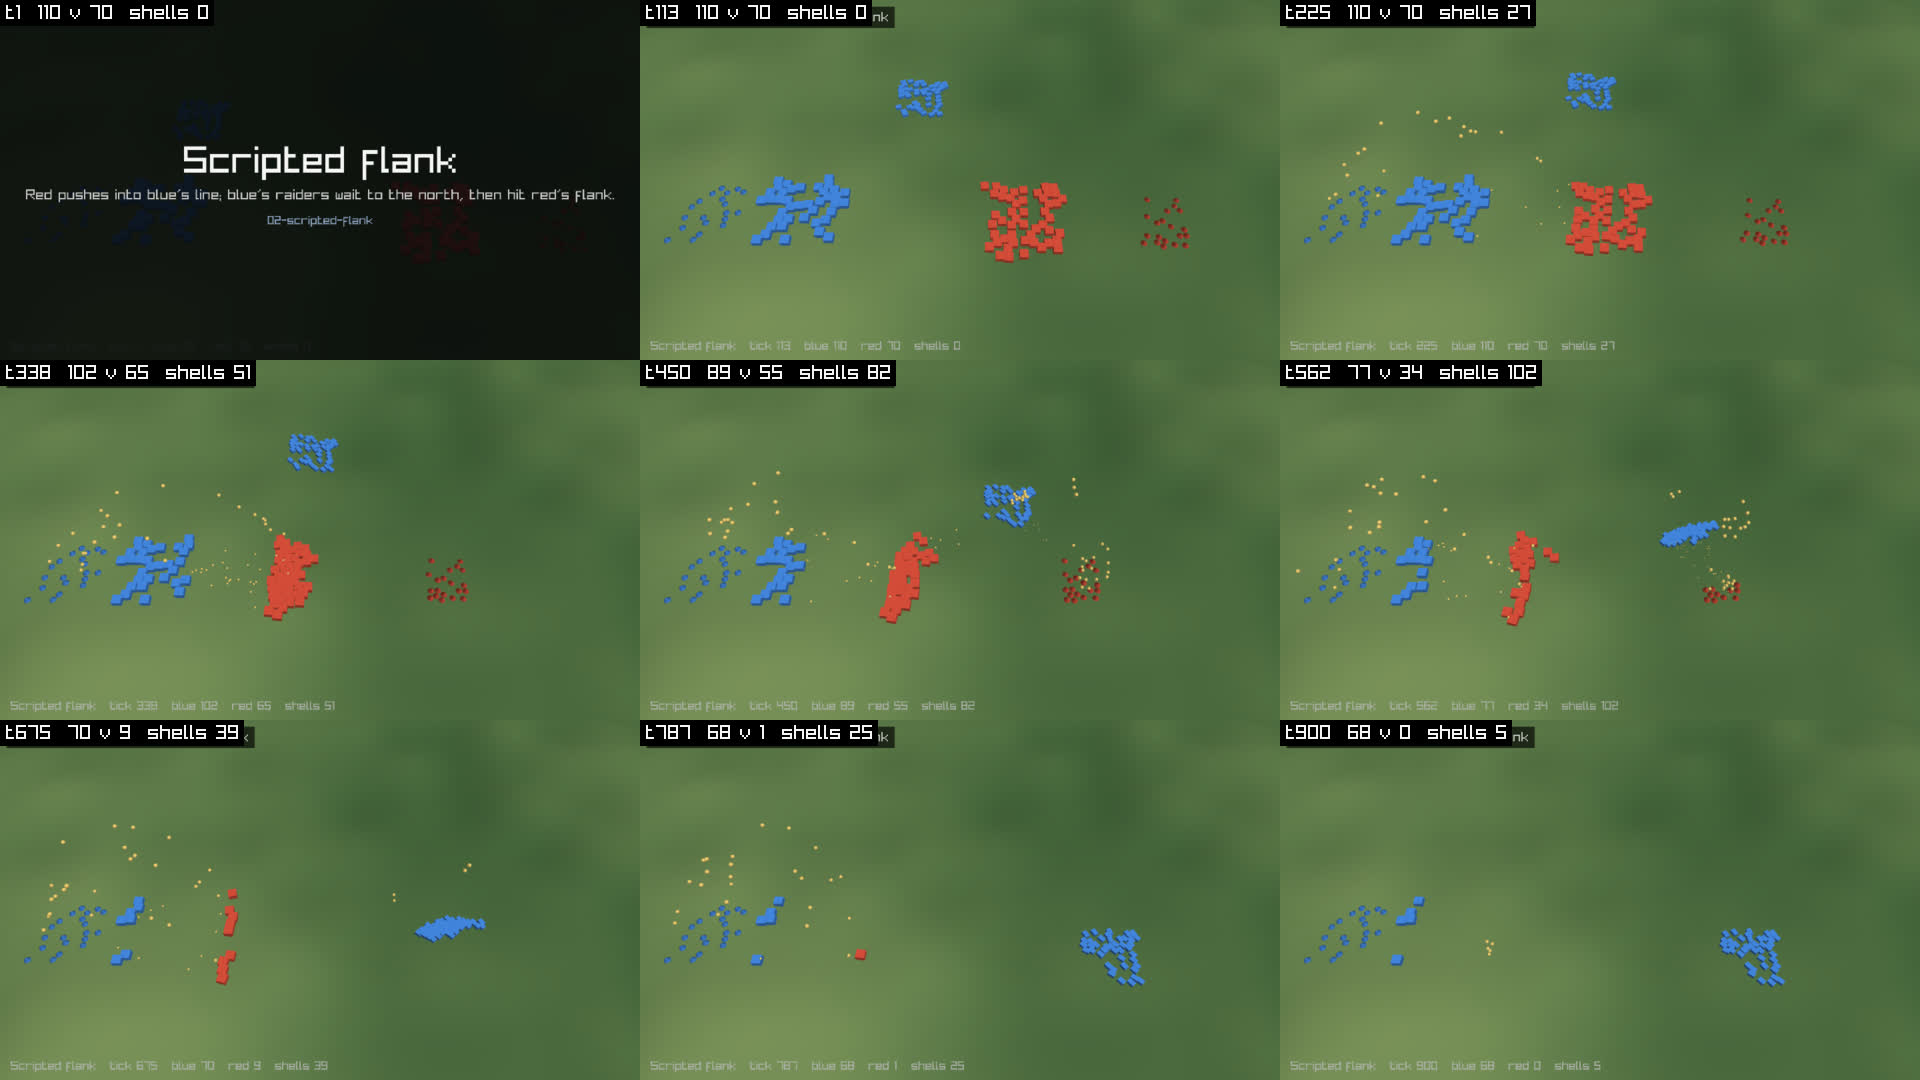
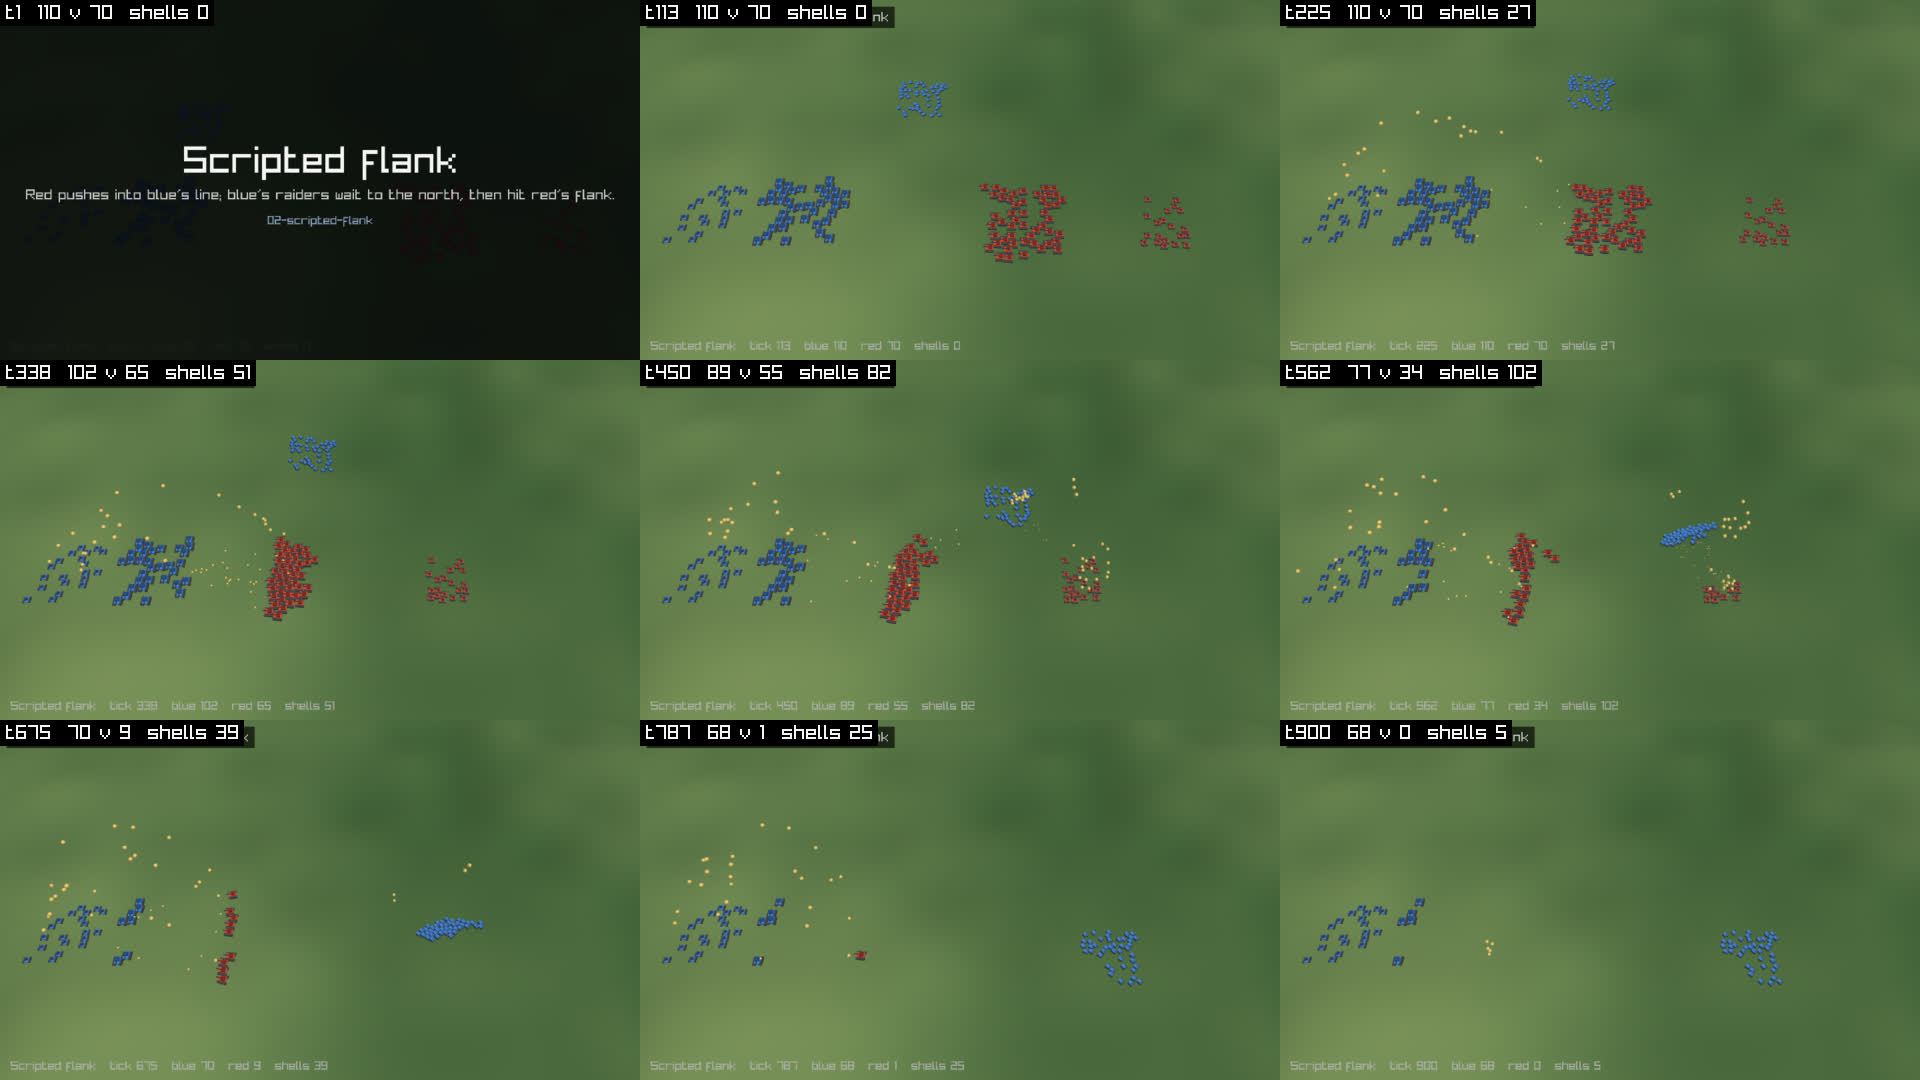
Spike 22b: models
Each type is a few primitives (box, cylinder, cone, sphere) merged into
one mesh at startup, so a type is still one instanced draw. A model fills
x, z in [-0.5, 0.5], y in [0, 1], its base on the ground and its front
toward +z. Each part's vertex colour is a tone: alpha 255 takes the
side's colour times its grey (body, darker trim), alpha 0 keeps its own
(metal and tracks, dark bays, warm lights), mixed in the unit shader.

Demo 28 lines up every T1 type and drives the units off. Every demo is
re-rendered (rendering changed); network demos re-ran for real (their
netlogs predated the 22a wire bump).

Claude-Session: https://claude.ai/code/session_01U6H7EAB8VtJZHRquW7cdoH

diff --git a/src/render.c b/src/render.c
@@ -7,21 +7,26 @@ static const char *UNIT_VS =
 	"#version 330\n"
 	"in vec3 vertexPosition;\n"
 	"in vec3 vertexNormal;\n"
+	"in vec4 vertexColor;\n"
 	"in mat4 instanceTransform;\n"
 	"uniform mat4 mvp;\n"
 	"out float shade;\n"
+	"out vec4 tone;\n"
 	"void main() {\n"
 	"    vec3 n = normalize(mat3(instanceTransform) * vertexNormal);\n"
 	"    shade = 0.45 + 0.55 * max(dot(n, normalize(vec3(0.4, 1.0, 0.3))), 0.0);\n"
+	"    tone = vertexColor;\n"
 	"    gl_Position = mvp * instanceTransform * vec4(vertexPosition, 1.0);\n"
 	"}\n";
 
 static const char *UNIT_FS =
 	"#version 330\n"
 	"in float shade;\n"
+	"in vec4 tone;\n"
 	"uniform vec4 colDiffuse;\n"
 	"out vec4 finalColor;\n"
-	"void main() { finalColor = vec4(colDiffuse.rgb * shade, colDiffuse.a); }\n";
+	"// tone.a: how much of the side's colour (1: the body; 0: metal, lights).\n"
+	"void main() { finalColor = vec4(mix(tone.rgb, colDiffuse.rgb * tone.rgb, tone.a) * shade, colDiffuse.a); }\n";
 
 static const Color FACTION_COLOR[FACTION_COUNT] = {{70, 140, 235, 255}, {225, 80, 60, 255}};
 
@@ -122,6 +127,208 @@ static void build_terrain(Renderer *r, const Terrain *t, Arena *program)
 	r->chunk_colors = PUSH(program, unsigned char, (TERRAIN_CHUNK + 1) * (TERRAIN_CHUNK + 1) * 4);
 }
 
+// Models: each type a few primitives merged into one mesh, so a type is
+// still one instanced draw. A model fills x, z in [-0.5, 0.5] and y in
+// [0, 1] (its base at y = 0, its front toward +z), and is scaled per
+// instance from the UnitDef. Each part's vertex colour is a tone: alpha 255
+// takes the side's colour times its grey (the body, darker trim), alpha 0
+// keeps its own colour (metal, tracks, lights): cheap depth.
+typedef enum { PART_BOX, PART_CYLINDER, PART_CONE, PART_SPHERE } Shape;
+typedef struct {
+	Shape shape;
+	int slices;          // round shapes' sides (0: 12)
+	float x, y, z;       // a box's or sphere's centre; a round shape's base centre
+	float sx, sy, sz;    // a box's size; a round shape's diameter (sx = sz) and length (sy)
+	float tilt;          // degrees from upright toward +z (90: lying along +z, a barrel)
+	Color tone;
+} Part;
+
+static const Color TONE_BODY = {255, 255, 255, 255};
+static const Color TONE_TRIM = {150, 150, 150, 255};
+static const Color TONE_METAL = {72, 74, 80, 0};
+static const Color TONE_DARK = {34, 34, 38, 0};
+static const Color TONE_PALE = {200, 200, 190, 0};
+static const Color TONE_GLOW = {255, 205, 100, 0};
+
+#define MODEL(...) ((const Part[]){__VA_ARGS__}), (int)(sizeof((const Part[]){__VA_ARGS__}) / sizeof(Part))
+#define TRACKS(w, h, l) {PART_BOX, 0, -0.5f + 0.5f * (w), 0.5f * (h), 0, w, h, l, 0, TONE_METAL}, {PART_BOX, 0, 0.5f - 0.5f * (w), 0.5f * (h), 0, w, h, l, 0, TONE_METAL}
+
+static Mesh model_mesh(const Part *parts, int n)
+{
+	// Unindexed triangles: raylib's round shapes come without indices.
+	Mesh gen[16];
+	ASSERT(n <= (int)countof(gen));
+	int total = 0;
+	for (int k = 0; k < n; k++) {
+		const Part *p = &parts[k];
+		int slices = p->slices ? p->slices : 12;
+		gen[k] = p->shape == PART_BOX        ? GenMeshCube(1.0f, 1.0f, 1.0f)
+		       : p->shape == PART_CYLINDER ? GenMeshCylinder(0.5f, 1.0f, slices)
+		       : p->shape == PART_CONE     ? GenMeshCone(0.5f, 1.0f, slices)
+		                              : GenMeshSphere(0.5f, 8, slices);
+		total += gen[k].indices ? gen[k].triangleCount * 3 : gen[k].vertexCount;
+	}
+	Mesh m = {0};
+	m.vertexCount = total;
+	m.triangleCount = total / 3;
+	m.vertices = MemAlloc((unsigned)(total * 3) * sizeof(float));
+	m.normals = MemAlloc((unsigned)(total * 3) * sizeof(float));
+	m.colors = MemAlloc((unsigned)(total * 4));
+	int v = 0;
+	for (int k = 0; k < n; k++) {
+		const Part *p = &parts[k];
+		const Mesh *g = &gen[k];
+		float a = p->tilt * (PI / 180.0f), ca = cosf(a), sa = sinf(a);
+		int count = g->indices ? g->triangleCount * 3 : g->vertexCount;
+		for (int q = 0; q < count; q++, v++) {
+			int s = g->indices ? g->indices[q] : q;
+			float x = g->vertices[s * 3] * p->sx, y = g->vertices[s * 3 + 1] * p->sy, z = g->vertices[s * 3 + 2] * p->sz;
+			// Normals under a non-uniform scale: divide by it, then renormalise.
+			float nx = g->normals[s * 3] / p->sx, ny = g->normals[s * 3 + 1] / p->sy, nz = g->normals[s * 3 + 2] / p->sz;
+			float nl = sqrtf(nx * nx + ny * ny + nz * nz);
+			nx /= nl, ny /= nl, nz /= nl;
+			// Tilt about x, from +y toward +z.
+			float ty = y * ca - z * sa, tz = y * sa + z * ca;
+			float tny = ny * ca - nz * sa, tnz = ny * sa + nz * ca;
+			m.vertices[v * 3] = p->x + x;
+			m.vertices[v * 3 + 1] = p->y + ty;
+			m.vertices[v * 3 + 2] = p->z + tz;
+			m.normals[v * 3] = nx;
+			m.normals[v * 3 + 1] = tny;
+			m.normals[v * 3 + 2] = tnz;
+			m.colors[v * 4] = p->tone.r;
+			m.colors[v * 4 + 1] = p->tone.g;
+			m.colors[v * 4 + 2] = p->tone.b;
+			m.colors[v * 4 + 3] = p->tone.a;
+		}
+		UnloadMesh(gen[k]);
+	}
+	UploadMesh(&m, false);
+	return m;
+}
+
+static void build_models(Renderer *r)
+{
+	Mesh *mesh = r->unit_mesh;
+	mesh[UNIT_RAIDER] = model_mesh(MODEL(TRACKS(0.18f, 0.3f, 0.95f),
+		{PART_BOX, 0, 0, 0.3f, -0.05f, 0.64f, 0.38f, 0.85f, 0, TONE_BODY},
+		{PART_BOX, 0, 0, 0.22f, 0.42f, 0.5f, 0.22f, 0.16f, 0, TONE_TRIM},
+		{PART_CYLINDER, 8, 0, 0.55f, 0.0f, 0.12f, 0.5f, 0.12f, 90, TONE_METAL}));
+	mesh[UNIT_TANK] = model_mesh(MODEL(TRACKS(0.24f, 0.36f, 1.0f),
+		{PART_BOX, 0, 0, 0.38f, 0, 0.56f, 0.36f, 0.85f, 0, TONE_BODY},
+		{PART_BOX, 0, 0, 0.7f, -0.08f, 0.44f, 0.3f, 0.44f, 0, TONE_TRIM},
+		{PART_CYLINDER, 8, 0, 0.72f, 0.12f, 0.13f, 0.6f, 0.13f, 90, TONE_METAL}));
+	mesh[UNIT_ARTILLERY] = model_mesh(MODEL(TRACKS(0.2f, 0.3f, 0.9f),
+		{PART_BOX, 0, 0, 0.32f, 0, 0.62f, 0.3f, 0.8f, 0, TONE_BODY},
+		{PART_CYLINDER, 10, 0, 0.45f, -0.05f, 0.5f, 0.15f, 0.5f, 0, TONE_METAL},
+		{PART_CYLINDER, 8, 0, 0.55f, -0.1f, 0.16f, 0.85f, 0.16f, 50, TONE_TRIM}));
+	mesh[UNIT_SIEGE] = model_mesh(MODEL(TRACKS(0.22f, 0.32f, 1.0f),
+		{PART_BOX, 0, 0, 0.34f, 0, 0.58f, 0.34f, 0.9f, 0, TONE_BODY},
+		{PART_BOX, 0, 0, 0.6f, -0.32f, 0.5f, 0.24f, 0.26f, 0, TONE_METAL},
+		{PART_CYLINDER, 8, 0, 0.55f, -0.15f, 0.2f, 1.15f, 0.2f, 62, TONE_TRIM},
+		{PART_CYLINDER, 8, 0, 0.55f, -0.15f, 0.32f, 0.12f, 0.32f, 62, TONE_DARK}));
+	mesh[UNIT_HEAVY_TANK] = model_mesh(MODEL(TRACKS(0.26f, 0.4f, 1.0f),
+		{PART_BOX, 0, 0, 0.38f, 0, 0.5f, 0.4f, 0.9f, 0, TONE_BODY},
+		{PART_BOX, 0, 0, 0.72f, -0.1f, 0.56f, 0.32f, 0.56f, 0, TONE_TRIM},
+		{PART_CYLINDER, 8, -0.1f, 0.74f, 0.15f, 0.11f, 0.6f, 0.11f, 90, TONE_METAL},
+		{PART_CYLINDER, 8, 0.1f, 0.74f, 0.15f, 0.11f, 0.6f, 0.11f, 90, TONE_METAL}));
+	mesh[UNIT_HOWITZER] = model_mesh(MODEL(TRACKS(0.22f, 0.32f, 1.0f),
+		{PART_BOX, 0, 0, 0.34f, 0, 0.56f, 0.34f, 0.9f, 0, TONE_BODY},
+		{PART_BOX, 0, 0, 0.62f, -0.05f, 0.44f, 0.24f, 0.5f, 0, TONE_TRIM},
+		{PART_CYLINDER, 8, 0, 0.62f, 0.0f, 0.2f, 0.85f, 0.2f, 55, TONE_METAL}));
+	mesh[UNIT_ENGINEER] = model_mesh(MODEL(TRACKS(0.16f, 0.25f, 0.9f),
+		{PART_BOX, 0, 0, 0.32f, -0.05f, 0.66f, 0.4f, 0.75f, 0, TONE_BODY},
+		{PART_BOX, 0, 0, 0.62f, 0.22f, 0.42f, 0.22f, 0.3f, 0, TONE_TRIM},
+		{PART_CYLINDER, 6, 0.15f, 0.52f, -0.25f, 0.1f, 0.75f, 0.1f, 60, TONE_PALE},
+		{PART_BOX, 0, -0.18f, 0.6f, -0.2f, 0.12f, 0.12f, 0.12f, 0, TONE_GLOW}));
+	mesh[UNIT_ADVANCED_ENGINEER] = model_mesh(MODEL(TRACKS(0.18f, 0.28f, 0.95f),
+		{PART_BOX, 0, 0, 0.34f, -0.05f, 0.64f, 0.42f, 0.8f, 0, TONE_BODY},
+		{PART_BOX, 0, 0, 0.66f, 0.22f, 0.42f, 0.24f, 0.3f, 0, TONE_TRIM},
+		{PART_CYLINDER, 6, 0.18f, 0.55f, -0.25f, 0.1f, 0.75f, 0.1f, 60, TONE_PALE},
+		{PART_CYLINDER, 6, -0.18f, 0.55f, -0.25f, 0.1f, 0.75f, 0.1f, 60, TONE_PALE},
+		{PART_BOX, 0, 0, 0.78f, 0.22f, 0.14f, 0.1f, 0.14f, 0, TONE_GLOW}));
+	mesh[UNIT_SAPPER] = model_mesh(MODEL(TRACKS(0.18f, 0.28f, 0.85f),
+		{PART_BOX, 0, 0, 0.34f, -0.08f, 0.62f, 0.42f, 0.7f, 0, TONE_BODY},
+		{PART_BOX, 0, 0, 0.62f, -0.15f, 0.36f, 0.18f, 0.34f, 0, TONE_TRIM},
+		{PART_BOX, 0, 0, 0.22f, 0.44f, 0.95f, 0.36f, 0.1f, 0, TONE_METAL}));
+	mesh[UNIT_SCOUT] = model_mesh(MODEL(
+		{PART_SPHERE, 10, 0, 0.45f, 0, 0.8f, 0.7f, 0.8f, 0, TONE_BODY},
+		{PART_CYLINDER, 10, 0, 0.0f, 0, 0.5f, 0.16f, 0.5f, 0, TONE_METAL},
+		{PART_CYLINDER, 4, 0.12f, 0.7f, -0.1f, 0.05f, 0.4f, 0.05f, 0, TONE_PALE},
+		{PART_SPHERE, 6, 0, 0.5f, 0.36f, 0.22f, 0.22f, 0.12f, 0, TONE_GLOW}));
+	mesh[UNIT_COMMANDER] = model_mesh(MODEL(
+		{PART_CYLINDER, 5, 0, 0, 0, 0.95f, 0.7f, 0.95f, 0, TONE_BODY},
+		{PART_CYLINDER, 5, 0, 0.7f, 0, 0.6f, 0.16f, 0.6f, 0, TONE_TRIM},
+		{PART_CYLINDER, 10, 0, 0, 0, 1.0f, 0.1f, 1.0f, 0, TONE_METAL},
+		{PART_SPHERE, 8, 0, 0.92f, 0, 0.22f, 0.22f, 0.22f, 0, TONE_GLOW}));
+	mesh[UNIT_METAL_TRUCK] = model_mesh(MODEL(TRACKS(0.12f, 0.2f, 0.95f),
+		{PART_BOX, 0, 0, 0.32f, 0.33f, 0.72f, 0.5f, 0.3f, 0, TONE_TRIM},
+		{PART_BOX, 0, 0, 0.25f, -0.15f, 0.78f, 0.3f, 0.66f, 0, TONE_BODY},
+		{PART_BOX, 0, 0, 0.5f, -0.15f, 0.6f, 0.22f, 0.5f, 0, TONE_PALE}));
+	mesh[UNIT_ENERGY_TRUCK] = model_mesh(MODEL(TRACKS(0.12f, 0.2f, 0.95f),
+		{PART_BOX, 0, 0, 0.32f, 0.33f, 0.72f, 0.5f, 0.3f, 0, TONE_TRIM},
+		{PART_CYLINDER, 12, 0, 0.45f, -0.48f, 0.7f, 0.66f, 0.7f, 90, TONE_BODY},
+		{PART_CYLINDER, 12, 0, 0.45f, -0.2f, 0.74f, 0.06f, 0.74f, 90, TONE_GLOW}));
+	mesh[UNIT_EXTRACTOR] = model_mesh(MODEL(
+		{PART_CYLINDER, 10, 0, 0, 0, 1.0f, 0.25f, 1.0f, 0, TONE_METAL},
+		{PART_CYLINDER, 10, 0, 0.25f, 0, 0.7f, 0.55f, 0.7f, 0, TONE_BODY},
+		{PART_CYLINDER, 10, 0, 0.8f, 0, 0.84f, 0.12f, 0.84f, 0, TONE_TRIM},
+		{PART_CYLINDER, 6, 0, 0.92f, 0, 0.2f, 0.08f, 0.2f, 0, TONE_GLOW}));
+	mesh[UNIT_ADVANCED_EXTRACTOR] = model_mesh(MODEL(
+		{PART_CYLINDER, 5, 0, 0, 0, 1.0f, 0.2f, 1.0f, 0, TONE_METAL},
+		{PART_CYLINDER, 5, 0, 0.2f, 0, 0.75f, 0.6f, 0.75f, 0, TONE_BODY},
+		{PART_CYLINDER, 5, 0, 0.8f, 0, 0.9f, 0.1f, 0.9f, 0, TONE_TRIM},
+		{PART_CYLINDER, 8, 0, 0.9f, 0, 0.35f, 0.1f, 0.35f, 0, TONE_GLOW}));
+	mesh[UNIT_GENERATOR] = model_mesh(MODEL(
+		{PART_BOX, 0, 0, 0.07f, 0, 0.9f, 0.14f, 0.9f, 0, TONE_METAL},
+		{PART_CYLINDER, 6, 0, 0.14f, 0, 0.3f, 0.68f, 0.3f, 0, TONE_BODY},
+		{PART_CYLINDER, 12, 0, 0.8f, 0, 0.9f, 0.06f, 0.9f, 0, TONE_TRIM},
+		{PART_SPHERE, 8, 0, 0.92f, 0, 0.2f, 0.16f, 0.2f, 0, TONE_GLOW}));
+	mesh[UNIT_FACTORY] = model_mesh(MODEL(
+		{PART_BOX, 0, 0, 0.34f, -0.04f, 1.0f, 0.68f, 0.92f, 0, TONE_BODY},
+		{PART_BOX, 0, 0, 0.71f, -0.04f, 1.02f, 0.06f, 0.94f, 0, TONE_TRIM},
+		{PART_BOX, 0, 0, 0.22f, 0.45f, 0.5f, 0.44f, 0.06f, 0, TONE_DARK},
+		{PART_BOX, 0, 0.33f, 0.48f, 0.45f, 0.08f, 0.08f, 0.04f, 0, TONE_GLOW},
+		{PART_CYLINDER, 8, 0.3f, 0.7f, -0.25f, 0.14f, 0.3f, 0.14f, 0, TONE_METAL}));
+	mesh[UNIT_ADVANCED_FACTORY] = model_mesh(MODEL(
+		{PART_BOX, 0, 0, 0.36f, -0.04f, 1.0f, 0.72f, 0.92f, 0, TONE_BODY},
+		{PART_BOX, 0, 0, 0.75f, -0.04f, 1.02f, 0.06f, 0.94f, 0, TONE_TRIM},
+		{PART_BOX, 0, 0, 0.25f, 0.45f, 0.6f, 0.5f, 0.06f, 0, TONE_DARK},
+		{PART_BOX, 0, 0.36f, 0.55f, 0.45f, 0.08f, 0.08f, 0.04f, 0, TONE_GLOW},
+		{PART_BOX, 0, -0.36f, 0.55f, 0.45f, 0.08f, 0.08f, 0.04f, 0, TONE_GLOW},
+		{PART_CYLINDER, 8, 0.3f, 0.75f, -0.25f, 0.14f, 0.25f, 0.14f, 0, TONE_METAL},
+		{PART_CYLINDER, 8, -0.3f, 0.75f, -0.25f, 0.14f, 0.25f, 0.14f, 0, TONE_METAL}));
+	mesh[UNIT_TRANSPORTER] = model_mesh(MODEL(
+		{PART_CYLINDER, 20, 0, 0, 0, 1.0f, 0.06f, 1.0f, 0, TONE_METAL},
+		{PART_CYLINDER, 20, 0, 0.06f, 0, 0.76f, 0.04f, 0.76f, 0, TONE_BODY},
+		{PART_CYLINDER, 20, 0, 0.1f, 0, 0.5f, 0.03f, 0.5f, 0, TONE_GLOW},
+		{PART_BOX, 0, 0.36f, 0.25f, 0.36f, 0.08f, 0.5f, 0.08f, 0, TONE_TRIM},
+		{PART_BOX, 0, -0.36f, 0.25f, 0.36f, 0.08f, 0.5f, 0.08f, 0, TONE_TRIM},
+		{PART_BOX, 0, 0.36f, 0.25f, -0.36f, 0.08f, 0.5f, 0.08f, 0, TONE_TRIM},
+		{PART_BOX, 0, -0.36f, 0.25f, -0.36f, 0.08f, 0.5f, 0.08f, 0, TONE_TRIM}));
+	mesh[UNIT_TURRET] = model_mesh(MODEL(
+		{PART_CYLINDER, 8, 0, 0, 0, 1.0f, 0.3f, 1.0f, 0, TONE_METAL},
+		{PART_CYLINDER, 8, 0, 0.3f, 0, 0.7f, 0.35f, 0.7f, 0, TONE_BODY},
+		{PART_CYLINDER, 8, 0, 0.5f, 0.1f, 0.16f, 0.55f, 0.16f, 90, TONE_TRIM}));
+	mesh[UNIT_METAL_VAULT] = model_mesh(MODEL(
+		{PART_BOX, 0, 0, 0.42f, 0, 0.9f, 0.84f, 0.9f, 0, TONE_BODY},
+		{PART_BOX, 0, 0, 0.1f, 0, 0.96f, 0.12f, 0.96f, 0, TONE_METAL},
+		{PART_BOX, 0, 0, 0.88f, 0, 0.96f, 0.12f, 0.96f, 0, TONE_METAL},
+		{PART_BOX, 0, 0, 0.45f, 0.46f, 0.4f, 0.5f, 0.04f, 0, TONE_PALE}));
+	mesh[UNIT_ENERGY_VAULT] = model_mesh(MODEL(
+		{PART_CYLINDER, 12, 0, 0, 0, 0.9f, 1.0f, 0.9f, 0, TONE_BODY},
+		{PART_CYLINDER, 12, 0, 0, 0, 0.96f, 0.12f, 0.96f, 0, TONE_METAL},
+		{PART_CYLINDER, 12, 0, 0.88f, 0, 0.96f, 0.12f, 0.96f, 0, TONE_METAL},
+		{PART_CYLINDER, 12, 0, 0.46f, 0, 0.94f, 0.08f, 0.94f, 0, TONE_GLOW}));
+	mesh[UNIT_HEADQUARTERS] = model_mesh(MODEL(
+		{PART_CYLINDER, 6, 0, 0, 0, 1.0f, 0.55f, 1.0f, 0, TONE_BODY},
+		{PART_CYLINDER, 6, 0, 0.55f, 0, 0.66f, 0.25f, 0.66f, 0, TONE_TRIM},
+		{PART_CYLINDER, 6, 0, 0, 0, 1.06f, 0.08f, 1.06f, 0, TONE_METAL},
+		{PART_CYLINDER, 4, 0, 0.8f, 0, 0.08f, 0.2f, 0.08f, 0, TONE_METAL},
+		{PART_SPHERE, 8, 0, 0.92f, 0, 0.16f, 0.16f, 0.16f, 0, TONE_GLOW}));
+	for (int k = 0; k < UNIT_TYPE_COUNT; k++) ASSERT(mesh[k].vertexCount > 0); // a model for every type
+}
+
 Camera3D render_camera(const Terrain *t, V2 focus, float distance)
 {
 	Vector3 target = {focus.x, terrain_height(t, focus.x, focus.z), focus.z};
@@ -145,31 +352,7 @@ void renderer_init(Renderer *r, const Terrain *terrain, ptrdiff_t max_units, Are
 	r->material = LoadMaterialDefault();
 	r->material.shader = r->shader;
 
-	// Unit meshes are unit-sized and scaled per instance from the UnitDef.
-	r->unit_mesh[UNIT_RAIDER] = GenMeshCube(1.0f, 1.0f, 1.4f);
-	r->unit_mesh[UNIT_TANK] = GenMeshCube(1.0f, 1.0f, 1.0f);
-	r->unit_mesh[UNIT_ARTILLERY] = GenMeshCone(0.5f, 1.0f, 8);
-	r->unit_mesh[UNIT_SIEGE] = GenMeshCone(0.5f, 1.0f, 4);
-	r->unit_mesh[UNIT_HEAVY_TANK] = GenMeshCube(1.0f, 1.0f, 1.3f);
-	r->unit_mesh[UNIT_HOWITZER] = GenMeshCone(0.5f, 1.0f, 5);
-	r->unit_mesh[UNIT_ADVANCED_ENGINEER] = GenMeshCube(1.0f, 1.0f, 1.2f);
-	r->unit_mesh[UNIT_ENGINEER] = GenMeshCube(1.0f, 1.0f, 1.0f);
-	r->unit_mesh[UNIT_SAPPER] = GenMeshCube(1.0f, 1.0f, 1.0f);
-	r->unit_mesh[UNIT_SCOUT] = GenMeshSphere(0.5f, 6, 8);
-	r->unit_mesh[UNIT_COMMANDER] = GenMeshCylinder(0.5f, 1.0f, 5);   // a pentagonal tower
-	r->unit_mesh[UNIT_METAL_TRUCK] = GenMeshCube(1.0f, 1.0f, 1.6f);
-	r->unit_mesh[UNIT_ENERGY_TRUCK] = GenMeshCylinder(0.5f, 1.0f, 8); // a tanker
-	r->unit_mesh[UNIT_EXTRACTOR] = GenMeshCylinder(0.5f, 1.0f, 10);
-	r->unit_mesh[UNIT_ADVANCED_EXTRACTOR] = GenMeshCylinder(0.5f, 1.0f, 5);
-	r->unit_mesh[UNIT_GENERATOR] = GenMeshCylinder(0.3f, 1.0f, 6);
-	r->unit_mesh[UNIT_FACTORY] = GenMeshCube(1.0f, 1.0f, 1.0f);
-	r->unit_mesh[UNIT_ADVANCED_FACTORY] = GenMeshCube(1.0f, 1.0f, 1.4f);
-	r->unit_mesh[UNIT_TRANSPORTER] = GenMeshCylinder(0.5f, 1.0f, 20);
-	r->unit_mesh[UNIT_TURRET] = GenMeshCone(0.5f, 1.0f, 6);
-	r->unit_mesh[UNIT_METAL_VAULT] = GenMeshCube(1.0f, 1.0f, 1.0f);
-	r->unit_mesh[UNIT_ENERGY_VAULT] = GenMeshCylinder(0.5f, 1.0f, 12);
-	r->unit_mesh[UNIT_HEADQUARTERS] = GenMeshCylinder(0.5f, 1.0f, 6);
-	for (int k = 0; k < UNIT_TYPE_COUNT; k++) ASSERT(r->unit_mesh[k].vertexCount > 0); // a mesh for every type
+	build_models(r);
 	r->shell_mesh = GenMeshSphere(1.0f, 6, 8);
 	build_terrain(r, terrain, program);
 	// Far enough to see a whole zone from above it (a standard zone keeps
@@ -278,11 +461,7 @@ void renderer_draw_scene(Renderer *r, const Scene *scene, float alpha, Arena *fr
 				float w = u->work[i];
 				h *= unit_digs_in(u->type[i]) ? 1.0f - 0.6f * w : 0.4f + 0.6f * w;
 			}
-			bool from_base = t == UNIT_ARTILLERY || t == UNIT_SIEGE || t == UNIT_HOWITZER || t == UNIT_EXTRACTOR
-			              || t == UNIT_ADVANCED_EXTRACTOR || t == UNIT_GENERATOR || t == UNIT_TRANSPORTER
-			              || t == UNIT_TURRET || t == UNIT_METAL_VAULT || t == UNIT_ENERGY_VAULT || t == UNIT_ENERGY_TRUCK
-			              || t == UNIT_COMMANDER || t == UNIT_HEADQUARTERS;
-			float y = u->py[i] + (from_base ? 0.0f : 0.5f * h);
+			float y = u->py[i]; // models sit on their base
 			float yaw = unit_is_structure(u->type[i]) ? 0.0f : heading[slot];
 			if (t == UNIT_ENGINEER || t == UNIT_ADVANCED_ENGINEER || t == UNIT_SAPPER) h *= 0.7f;
 			bucket[t][s][count[t][s]++] = transform(x, y, z, d, h, d, yaw);
